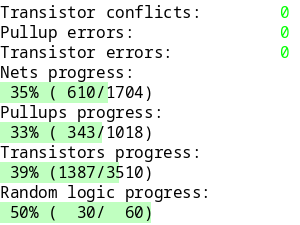
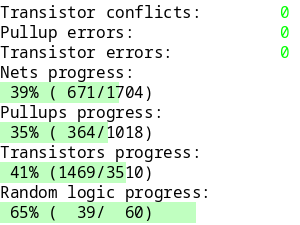
Added random logic dpc30-dpc38

diff --git a/nodenames.js b/nodenames.js
@@ -957,5 +957,18 @@ launchT0:732,   //Starts T0 cycle
 "##notir5":270,
 
 tres2: 1357,         // Resets T2-T5 
+
+"#pcl0": 937,
+"#pcl1": 329,
+"#pcl2": 783,
+"#pcl3": 249,
+"#pcl4": 1643,
+"#pcl5": 386,
+"#pcl6": 232,
+"#pcl7": 641,
+"#pch0": 1010,
+"#pch1": 1070,
+"#pch2": 1265,
+"#pch3": 923
 }
 
